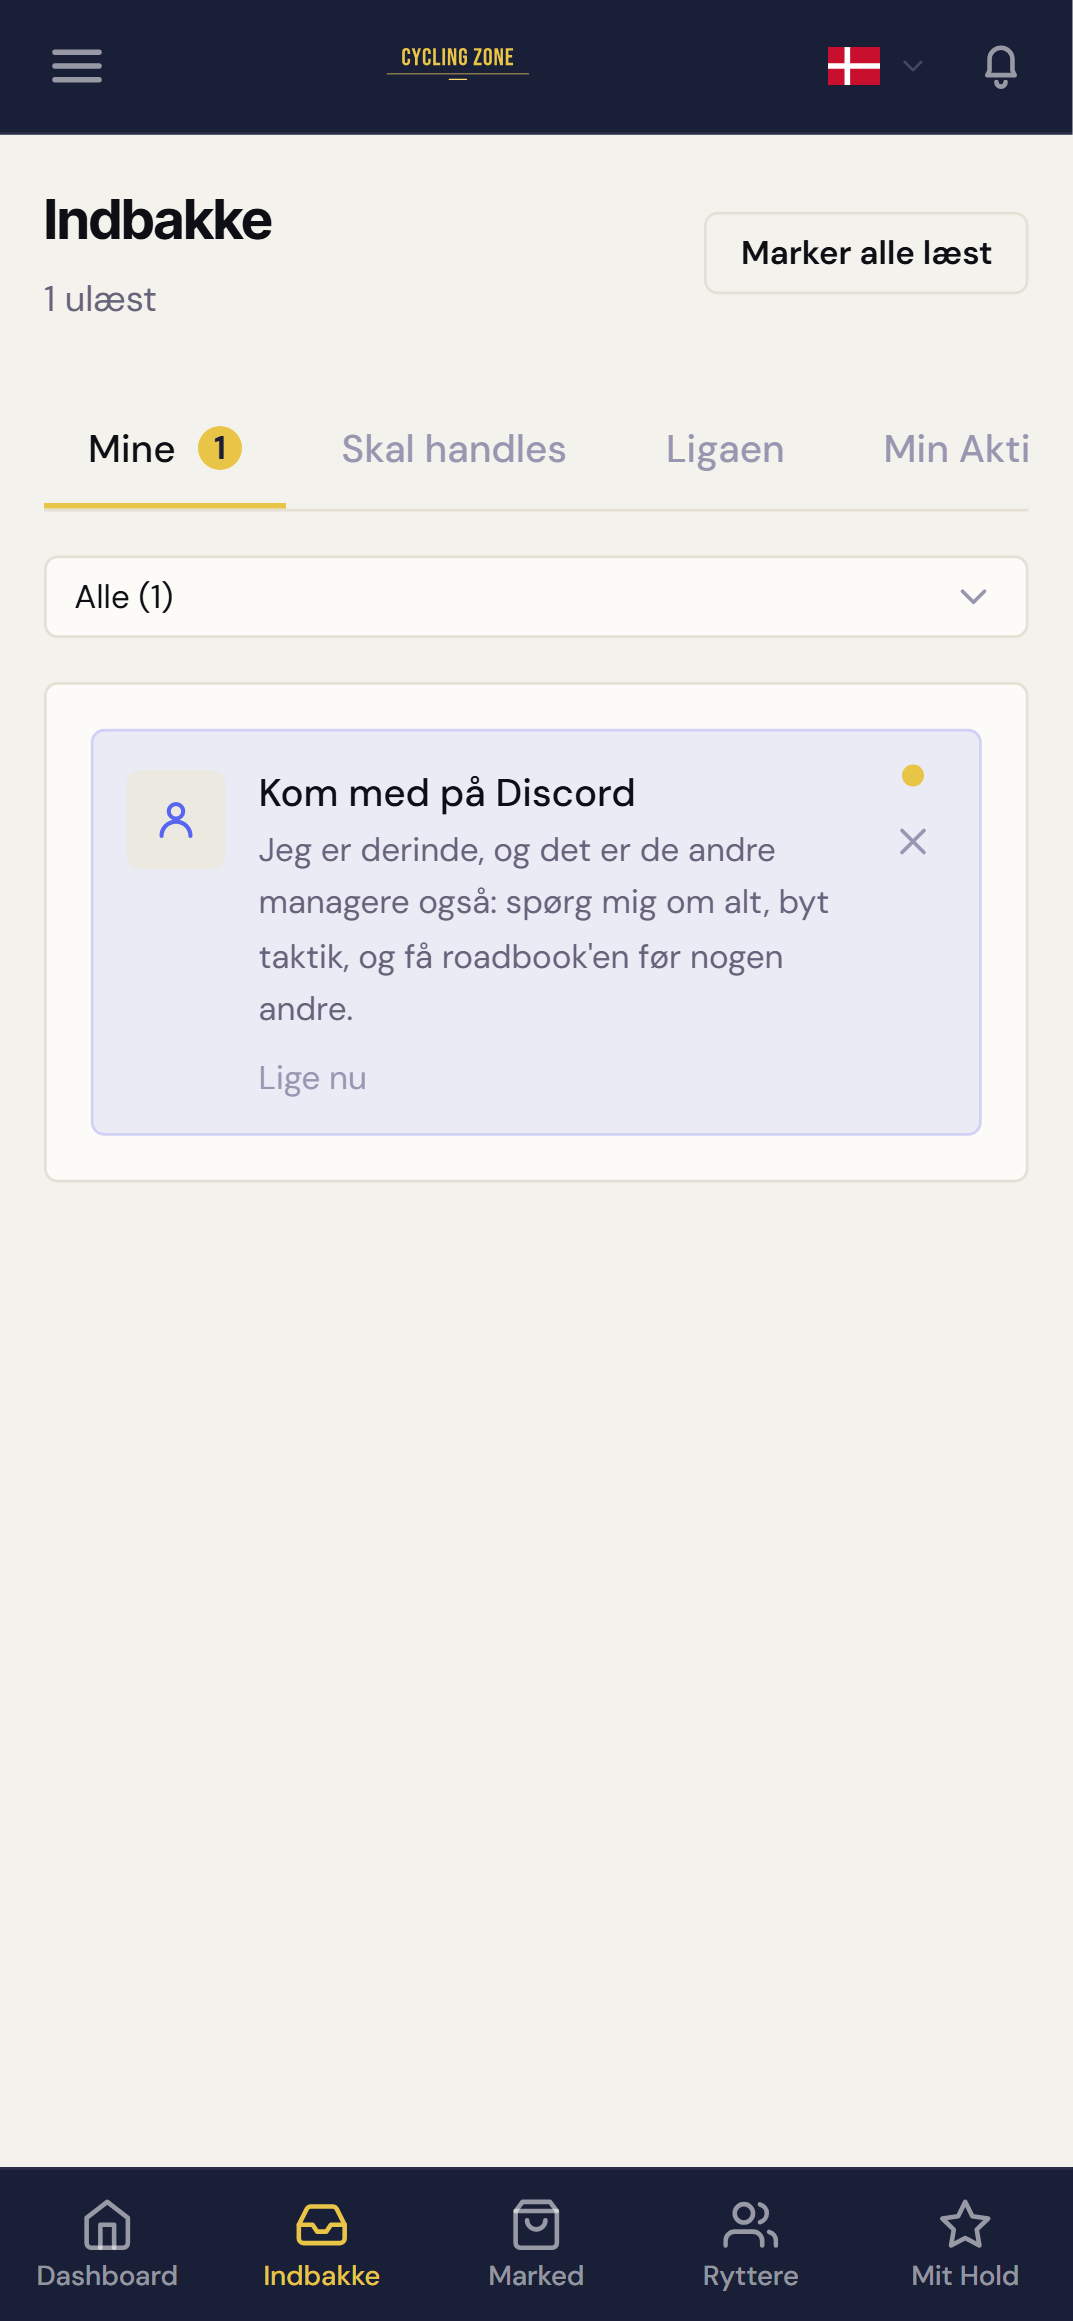
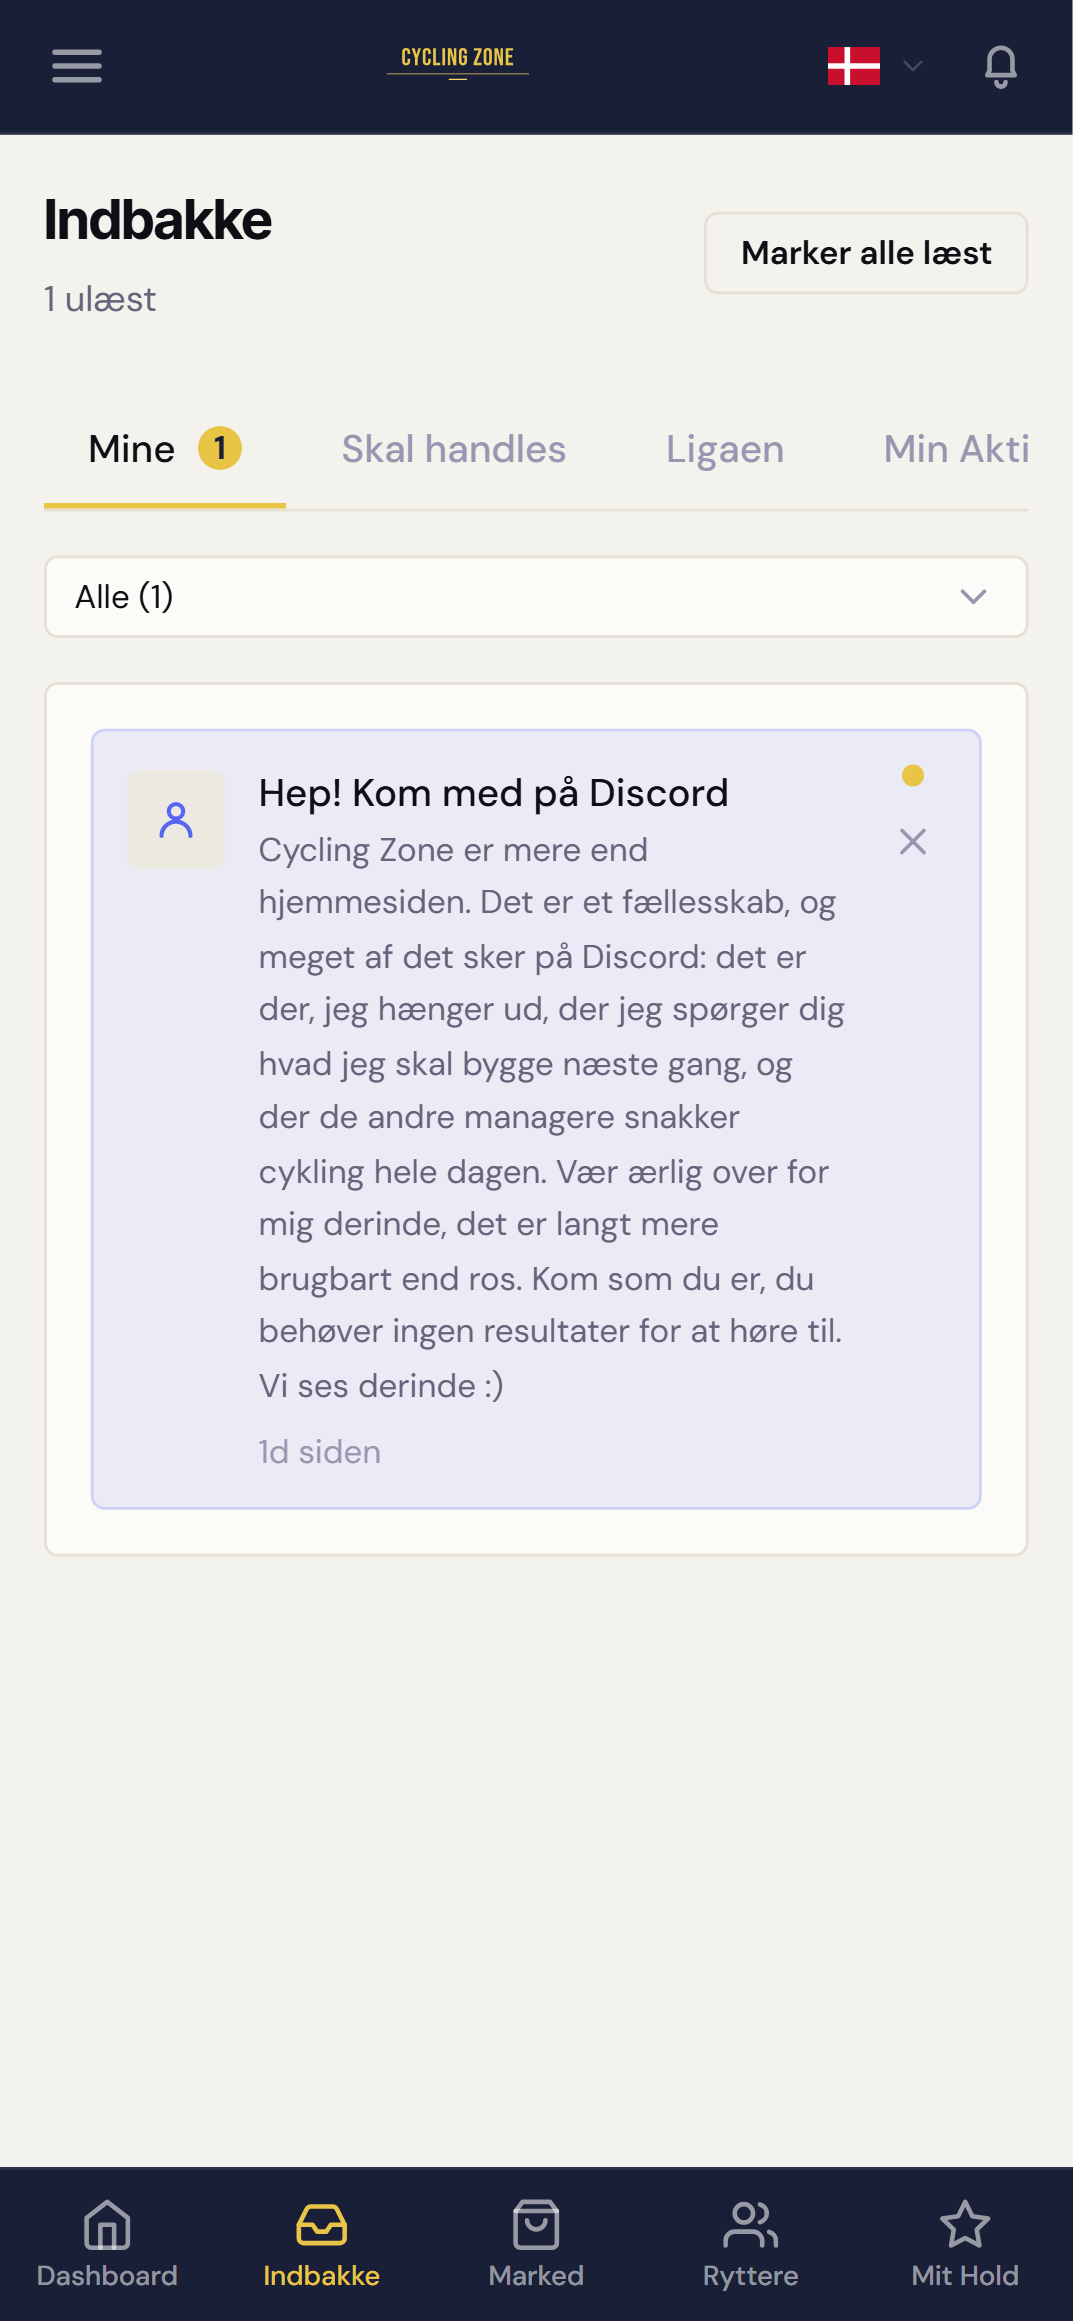
feat(discord): #5130 ejer-godkendt Discord-velkomst-copy + registry + e2e
- frontend/public/locales/{en,da}/backendMessages.json: notif.discordWelcome
  bygget ordret ind fra docs/drafts/discord-welcome-copy-2026-09-15.md
  (ejer-godkendt 15/9 efter tre runder) - DA med rigtige ae/oe/aa-tegn.
- docs/FEATURE_REGISTRY.yml: ny entry discord-welcome-inbox (area comms,
  state beta) + genereret docs/FEATURE_STATUS.md.
- frontend/tests/e2e/5130-discord-welcome-notification.spec.js: forventet
  titel/besked opdateret til den nye copy; desktop- og mobil-390-
  skaermbilleder i pr-screens/ regenereret mod den nye tekst.

Refs #5130

Changed region(s): [[0.246, 0.3102, 0.7689, 0.6514]]

diff --git a/frontend/tests/e2e/5130-discord-welcome-notification.spec.js b/frontend/tests/e2e/5130-discord-welcome-notification.spec.js
@@ -49,12 +49,13 @@ test("discord_welcome-notifikationen renderes med titel, besked og et eksternt D
 
   // Titel + besked via metadata.{titleCode,messageCode} — bilingval regex
   // (locale er låst til DA af stabilizePage, men fallbackLng kan stadig
-  // vinde afhængigt af browser-locale i CI).
+  // vinde afhængigt af browser-locale i CI). Ejer-godkendt copy 15/9
+  // (docs/drafts/discord-welcome-copy-2026-09-15.md) — ordlyden må ikke ændres.
   await expect(
-    page.getByText(/^Come hang out on Discord$|^Kom med på Discord$/),
+    page.getByText(/^Hep! Come join us on Discord$|^Hep! Kom med på Discord$/),
   ).toBeVisible();
   await expect(
-    page.getByText(/ask me anything, swap tactics|spørg mig om alt, byt taktik/),
+    page.getByText(/it is a community, and a lot of it happens on Discord|Det er et fællesskab, og meget af det sker på Discord/),
   ).toBeVisible();
 
   // Kortets link peger på den RIGTIGE eksterne invite-URL — ikke en intern
@@ -64,7 +65,7 @@ test("discord_welcome-notifikationen renderes med titel, besked og et eksternt D
   // isExternalNotificationLink-grenen manglet, ville et link der starter
   // med "https://" være sendt til react-router's navigate() og enten fejle
   // eller lave en ugyldig intern navigation).
-  const card = page.getByText(/^Come hang out on Discord$|^Kom med på Discord$/);
+  const card = page.getByText(/^Hep! Come join us on Discord$|^Hep! Kom med på Discord$/);
   const [popup] = await Promise.all([
     page.waitForEvent("popup"),
     card.click(),
@@ -90,7 +91,7 @@ test("discord_welcome-notifikationen på mobil-bredde 390 (#5130)", async ({ pag
   await page.goto("/notifications");
 
   await expect(
-    page.getByText(/^Come hang out on Discord$|^Kom med på Discord$/),
+    page.getByText(/^Hep! Come join us on Discord$|^Hep! Kom med på Discord$/),
   ).toBeVisible();
 
   await page.screenshot({

diff --git a/docs/FEATURE_STATUS.md b/docs/FEATURE_STATUS.md
@@ -5,7 +5,7 @@
 > Regenerér: `node scripts/generate-feature-status.mjs`
 > Flag-gate mod prod: `node scripts/check-feature-registry-flags.mjs`
 
-64 poster: live 43 · beta 2 · dormant 5 · building 9 · spec 1 · idea 2 · retired 2. Tilstand afledes af kode og prod-flag, aldrig af prosa.
+65 poster: live 43 · beta 3 · dormant 5 · building 9 · spec 1 · idea 2 · retired 2. Tilstand afledes af kode og prod-flag, aldrig af prosa.
 
 Epic-numre er issues i NicolaiDolmer/CyclingZone. Flag er noegler i prod `app_config`.
 
@@ -137,6 +137,7 @@ Epic-numre er issues i NicolaiDolmer/CyclingZone. Flag er noegler i prod `app_co
 | Feature | State | Flag | SSOT | Epic | Verified | Note |
 | --- | --- | --- | --- | --- | --- | --- |
 | In-app player survey (`in-app-survey`) | live | - | [SURVEY_SYSTEM.md](SURVEY_SYSTEM.md) | #4943 | 2026-09-08 | Skemaet 2026-09-features åbnet 8/9 14:15 (241 inviteret via indbakken); admin-resultatside /admin/surveys/:slug live (#5043). |
+| Discord welcome inbox notification (`discord-welcome-inbox`) | beta | - | - | #5130 | 2026-09-15 | Sweep (discordWelcomeSweep.js) sender én gang pr. hold ved draft-tærsklen eller 24t-fallback; PR #5211 hærdes (haerd-foerst-saa-merge) inden merge. |
 | Email retention loop (`email-loop`) | beta | - | [EMAIL_LOOP_GO_LIVE_RUNBOOK.md](EMAIL_LOOP_GO_LIVE_RUNBOOK.md) | #4616 | 2026-09-14 | welcome + day1 on siden 8/9 (#2853), race_digest off; webhook afventer RESEND_WEBHOOK_SECRET (ejer); win-back #2760 bygget (flag false, ejer-go 21-24/9). |
 
 ## billing
